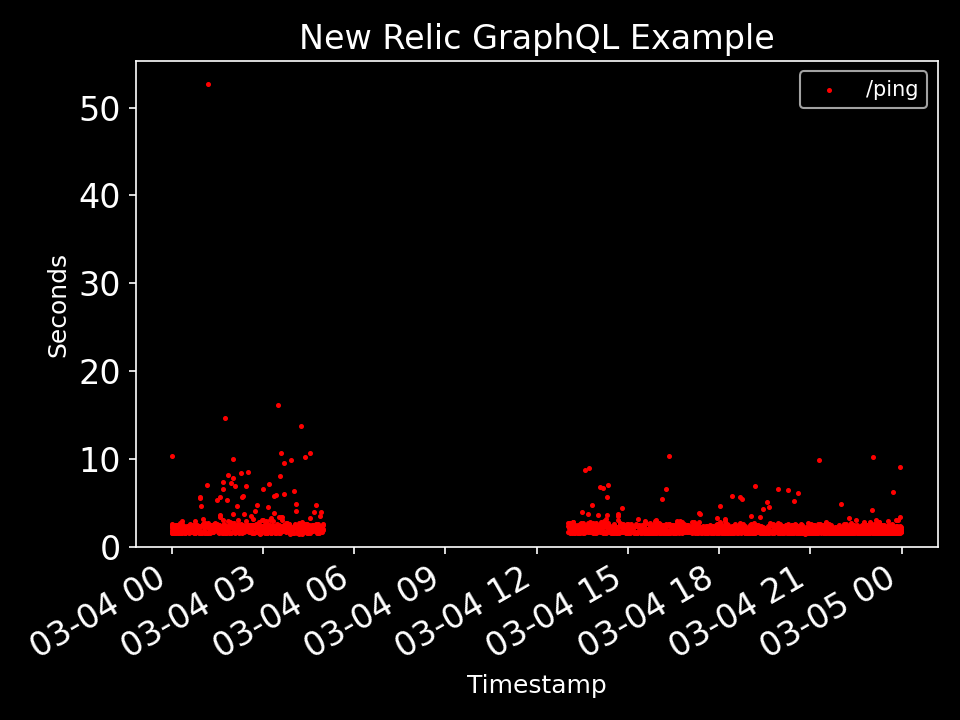
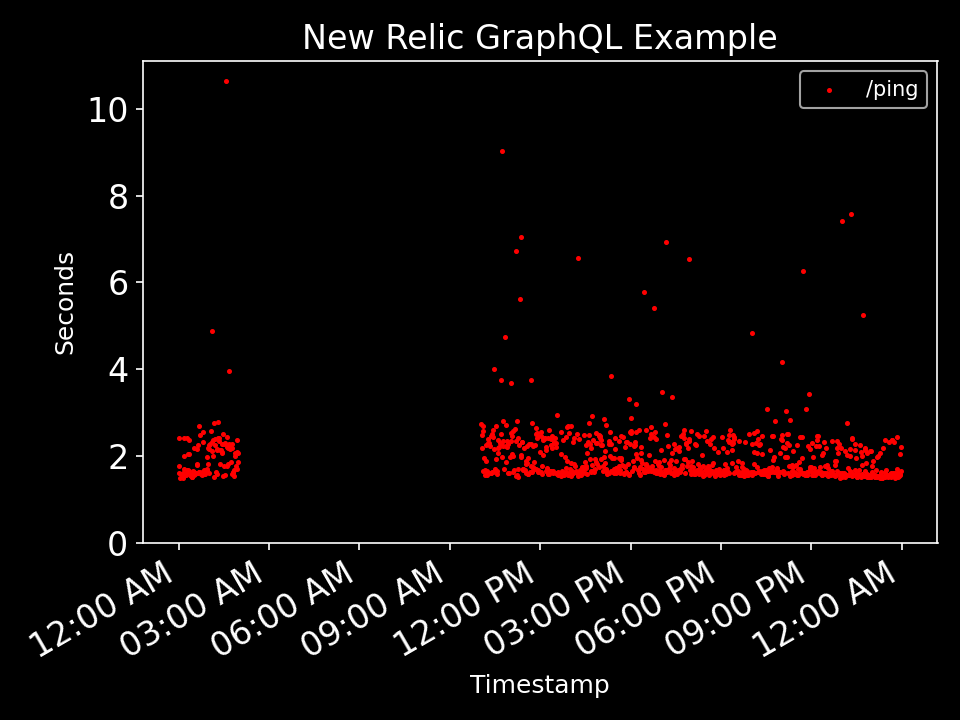
Fixed timezone conversion

Changed region(s): [[0.0312, 0.0917, 1.0, 0.9778], [0.3125, 0.0306, 0.8125, 0.0917], [0.0312, 0.8556, 0.0938, 0.9167]]

diff --git a/graphql.py b/graphql.py
@@ -1,6 +1,7 @@
 import requests
 import pandas as pd
 import matplotlib.pyplot as plt
+import matplotlib.dates as mdates
 
 API_Key = "NRAK-XXXXXXXXXXXXXXXXXXXXXXXXXXX"
 
@@ -10,7 +11,7 @@ headers = {"API-Key": f"{API_Key}", "Content-Type": "application/json"}
 apm_query = """query GetSpans {
   actor {
     account(id: 1234567) {
-      nrql(query: "SELECT timestamp, duration, request.uri from Transaction WHERE appName = 'FlaskApp - Heroku (APM)' SINCE 60 DAYS AGO LIMIT MAX") {
+      nrql(query: "SELECT timestamp, duration, request.uri from Transaction WHERE appName = 'FlaskApp - Heroku (APM)' SINCE 24 HOURS AGO LIMIT MAX") {
         results
       }
     }
@@ -25,9 +26,10 @@ if r.status_code == 200:
 else:
   raise Exception(f"Query failed to run with a {r.status_code}.")
 
-# Convert UNIX epoch time to YYYY-MM-DD HH:mm:ss AM/PM
+# Convert UNIX epoch time to YYYY-MM-DD HH:mm:ss AM/PM and convert timezone as needed
 df.sort_values(by=["timestamp"], inplace=True)
-df["timestamp"] = pd.to_datetime(df["timestamp"], unit="ms").dt.strftime(date_format = "%I:%M:%S %p")
+df["timestamp"] = pd.to_datetime(df["timestamp"], unit="ms")
+df["timestamp"] = df["timestamp"].dt.tz_localize("Etc/GMT+2").dt.tz_convert("America/Toronto").dt.strftime(date_format = "%I:%M:%S %p")
 #df.head()
 
 # Plot the counts.
@@ -39,6 +41,8 @@ ax.scatter(pd.to_datetime(df["timestamp"]), 1000*df[(df["request.uri"]=="/ping")
 plt.title("New Relic GraphQL Example", fontsize=16)
 plt.xlabel("Timestamp", fontsize=12)
 fig.autofmt_xdate()
+xfmt = mdates.DateFormatter('%I:%M %p')
+ax.xaxis.set_major_formatter(xfmt)
 plt.ylabel("Seconds", fontsize=12)
 plt.tick_params(axis="both", which="major", labelsize=16)
 ax.set_ylim(bottom=0)
